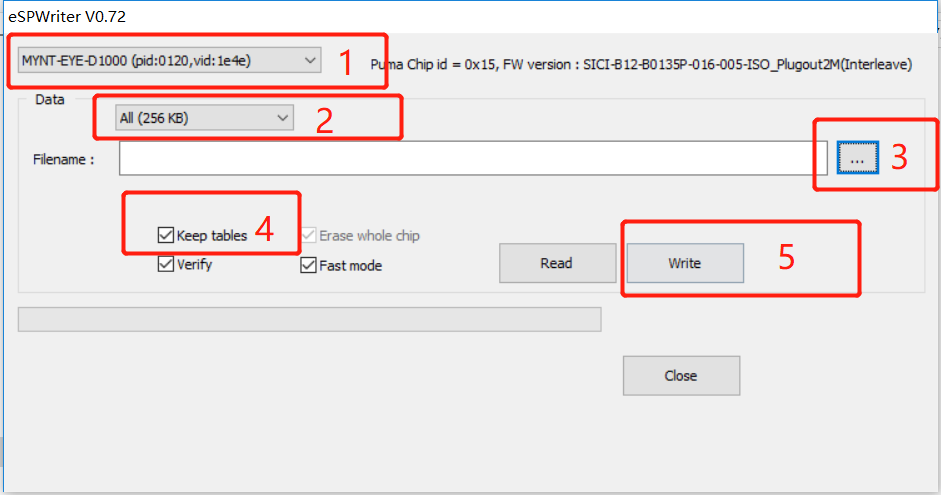
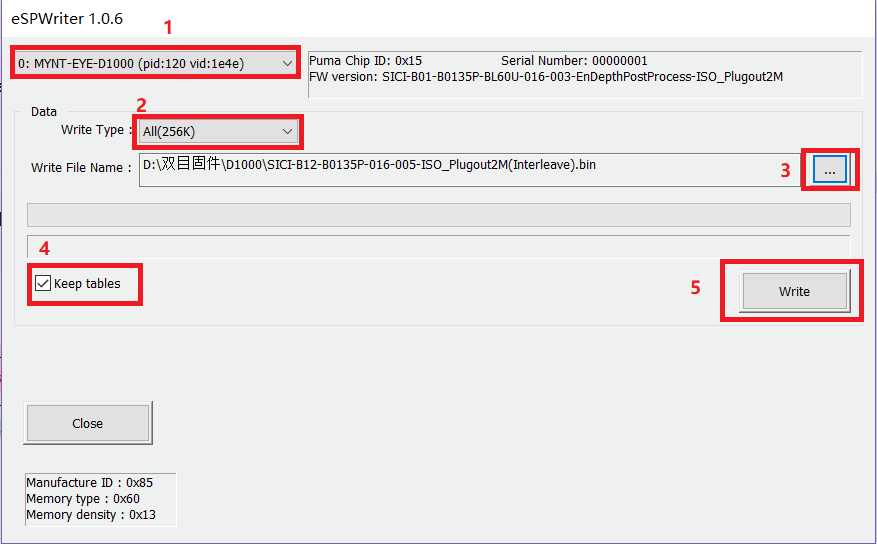
feat(doc): added update camera firmware tool

Changed region(s): [[0.0, 0.0, 1.0, 1.0], [0.6773, 0.697, 0.7697, 0.8182]]

diff --git a/docs/en/tools/update_camera_firmware.md b/docs/en/tools/update_camera_firmware.md
@@ -1,0 +1,33 @@
+# Update Camera Firmware {#update_camera_firmware}
+
+Note:: This tool does not support beta device upgrade.
+
+## Get Firmware
+
+Latest firmware: SICI-B12-B0135P-016-005-ISO_Plugout2M(Interleave).bin [Google Drive](https://drive.google.com/open?id=1gAbTf6W10a8iwT7L9TceMVgxQCWKnEsx), [Baidu Pan](https://pan.baidu.com/s/1sZKxugg5P8Dk5QgneA9ttw)
+
+## Get Update Tool
+
+Latest tool: EtronWriter_1.0.6.zip [Google Drive](https://drive.google.com/open?id=1gAbTf6W10a8iwT7L9TceMVgxQCWKnEsx), [Baidu Pan](https://pan.baidu.com/s/1sZKxugg5P8Dk5QgneA9ttw)
+
+## Update Firmware
+
+Note:: Please follow the steps to upgrade firmware.(Otherwise, the camera calibration parameters will be lost.)
+
+ 1, Select camera device.
+
+ 2, Select data type(256KB).
+
+ 3, Select camera firmware.
+
+ 4, Select `Keep tables` (in order to keep calibration parameters).
+
+ 5, Click `Write`.
+
+Use the tool according to diagram:
+
+![update tool](update_camera_tool.png)
+
+\latexonly
+\includegraphics[width=1\textwidth]{update_camera_tool.png}
+\endlatexonly

diff --git a/docs/zh-Hans/tools/update_camera_firmware.md b/docs/zh-Hans/tools/update_camera_firmware.md
@@ -1,0 +1,33 @@
+# 升级相机固件 {#update_camera_firmware}
+
+注意:: 此工具不支持内测版设备升级
+
+## 获取固件
+
+Latest firmware: SICI-B12-B0135P-016-005-ISO_Plugout2M(Interleave).bin [Google Drive](https://drive.google.com/open?id=1gAbTf6W10a8iwT7L9TceMVgxQCWKnEsx), [Baidu Pan](https://pan.baidu.com/s/1sZKxugg5P8Dk5QgneA9ttw)
+
+## 获取升级工具
+
+Latest tool: EtronWriter_1.0.6.zip [Google Drive](https://drive.google.com/open?id=1gAbTf6W10a8iwT7L9TceMVgxQCWKnEsx), [Baidu Pan](https://pan.baidu.com/s/1sZKxugg5P8Dk5QgneA9ttw)
+
+## 升级固件
+
+注意:: 请严格按照步骤升级固件.(否则可能会丢失相机标定参数)
+
+ 1, 选择相机设备.
+
+ 2, 选择数据类型(256KB).
+
+ 3, 选择相机固件.
+
+ 4, 选择 `Keep tables` (保留相机标定参数).
+
+ 5, 点击 `Write`.
+
+参考图示使用工具:
+
+![update tool](update_camera_tool.png)
+
+\latexonly
+\includegraphics[width=1\textwidth]{update_camera_tool.png}
+\endlatexonly

diff --git a/docs/en/tools.md b/docs/en/tools.md
@@ -6,3 +6,4 @@
 * @subpage save_all_infos
 * @subpage write_imu_params
 * @subpage update_hid_firmware
+* @subpage update_camera_firmware

diff --git a/docs/zh-Hans/tools.md b/docs/zh-Hans/tools.md
@@ -6,3 +6,4 @@
 * @subpage save_all_infos
 * @subpage write_imu_params
 * @subpage update_hid_firmware
+* @subpage update_camera_firmware
